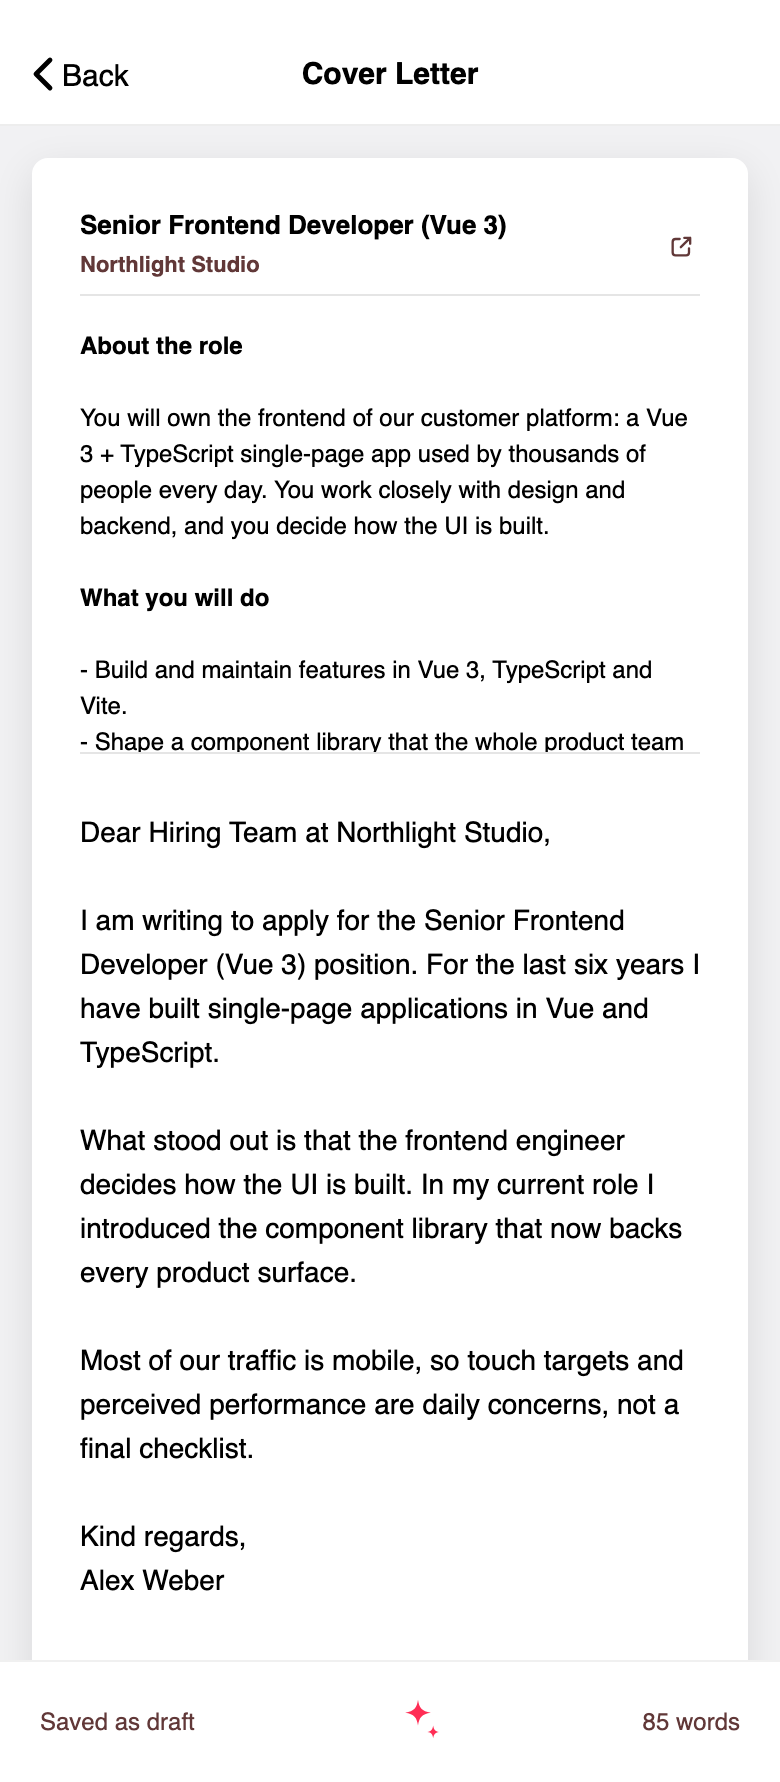
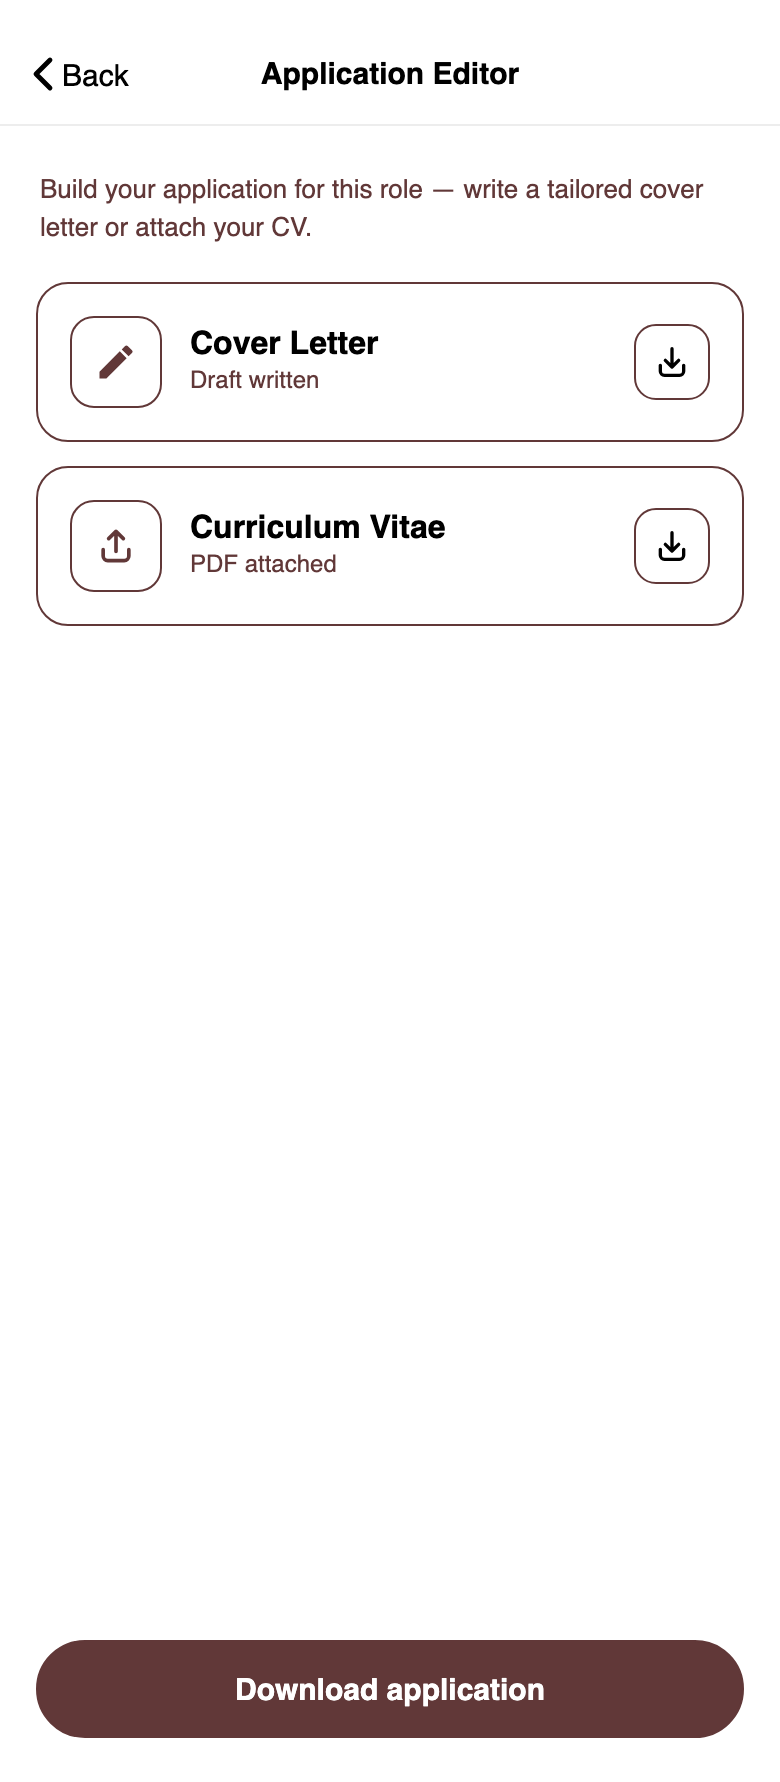
docs: document the Application Editor menu and its downloads (closes #59) (#60)
* chore: start work on issue #59

* docs: document the Application Editor menu and its downloads (closes #59)

* docs: correct Application Editor claims flagged in review

Applies the code-review findings on the Application Editor documentation:

- Move "with the job kept in view" off the menu bullet (the menu renders no
  job) onto the cover letter view, which does.
- Distinguish the two disabled-state gates: the CV download button reflects
  server presence, the cover letter button reflects a local draft
  (`letterDone = text.trim().length > 0`), so it enables before the debounced
  upload lands — and "Download application" inherits that reading.
- Note that CV upload and status are scoped to the job's `duplicateKey`, so a
  CV is attached per job rather than once per user.
- Attribute the CV upload to `ApplicationEditorPage.vue`; `CvFileInput.vue`
  only emits the chosen file.
- Name the two per-document download endpoints alongside the merged one.
- Add the three non-debounce upload flush points (leaving the editor, swiping
  to another card, unmount).
- Give `CoverLetterAction.vue` its full path, fix the match-page alt text to
  say the pencil opens the Application Editor, and list the application editor
  in the project layout tree.

* chore: add changelog entry and bump version to 0.2.6

---------

diff --git a/README.md b/README.md
@@ -14,9 +14,9 @@ to be running for jobMatch to do anything. See
 
 ## Screenshots
 
-| Match page                                                                                                                                                                      | Cover letter editor                                                                                                                                                                                |
-| ------------------------------------------------------------------------------------------------------------------------------------------------------------------------------- | -------------------------------------------------------------------------------------------------------------------------------------------------------------------------------------------------- |
-| ![Swipeable job card with a match meter, tags and the job description, above the dislike and like drag indicators and the cover letter button](docs/screenshots/match-page.png) | ![Cover letter editor showing the job the letter is written for, a full draft in the text area, the save status, the AI generate button and a word count](docs/screenshots/application-editor.png) |
+| Match page                                                                                                                                                                                                  | Application Editor                                                                                                                                                                                                                                            | Cover Letter                                                                                                                                                                                        |
+| ----------------------------------------------------------------------------------------------------------------------------------------------------------------------------------------------------------- | ------------------------------------------------------------------------------------------------------------------------------------------------------------------------------------------------------------------------------------------------------------- | --------------------------------------------------------------------------------------------------------------------------------------------------------------------------------------------------- |
+| ![Swipeable job card with a match meter, tags and the job description, above the dislike and like drag indicators and the pencil button that opens the Application Editor](docs/screenshots/match-page.png) | ![Application Editor menu with a Cover Letter row reading "Draft written", a Curriculum Vitae row reading "PDF attached", a download button beside each, and an enabled "Download application" button at the bottom](docs/screenshots/application-editor.png) | ![Cover letter editor showing the job the letter is written for, a full draft in the text area, the save status, the AI generate button and a word count](docs/screenshots/cover-letter-editor.png) |
 
 ## Features
 
@@ -34,15 +34,40 @@ to be running for jobMatch to do anything. See
   without a `match` value simply renders without one. A filter bar lets you
   hide everything below an adjustable threshold
   (`src/components/MatchFilterBar.vue`).
-- **Application editor** — the pencil button below the deck opens an editor for
-  the card on top (`src/pages/match/ApplicationEditorPage.vue`) with the job it
-  belongs to kept in view. Generate a cover letter tailored to that job with one
-  tap, then edit it by hand — drafts auto-save to `localStorage` and upload to
-  the server (both live in `ApplicationEditorPage.vue`; the editor itself,
-  `src/components/coverLetter/CoverLetterEditor.vue`, is presentational). The
-  same editor's menu lets you attach your CV as a PDF, and download the cover
-  letter, the CV, or both merged into a single application PDF
-  (`src/components/application/ApplicationEditorMenu.vue`).
+- **Application editor** — the pencil button below the deck opens the
+  Application Editor for the card on top
+  (`src/pages/match/ApplicationEditorPage.vue`). It is a two-view flow: you land
+  on a menu (`src/components/application/ApplicationEditorMenu.vue`) offering a
+  cover letter action, a CV attachment and the application download; the cover
+  letter editor is a second view opened from the menu's cover letter row.
+- **Cover letter** — generate one tailored to the job with one tap
+  (`POST /cover-letters/create/text`), then edit it by hand with the job it
+  belongs to kept in view (the menu shows no job; the letter view does). Drafts
+  save to `localStorage` immediately and upload to the server after a 3s typing
+  pause (`POST /cover-letters/upload/text`) — and also when you leave the
+  editor, swipe to another card, or the page unmounts. Both live in
+  `ApplicationEditorPage.vue`;
+  `src/components/coverLetter/CoverLetterEditor.vue` is presentational.
+- **CV and downloads** — attach a PDF CV (`src/components/CvFileInput.vue`,
+  `accept="application/pdf,.pdf"`). That component only emits the chosen file;
+  `ApplicationEditorPage.vue` uploads it (`POST /cv/upload`) and checks presence
+  (`GET /cv/<duplicateKey>/status`). Both are scoped to the job's
+  `duplicateKey`, so a CV is attached per job and has to be re-attached for the
+  next one. Download the cover letter alone (`GET /cover-letters/<duplicateKey>`),
+  the CV alone (`GET /cv/<duplicateKey>`), or both:
+    - the CV download button is disabled until the CV is on the server
+      (`:disabled="!uploaded"` in `CvFileInput.vue`);
+    - the cover letter download button is disabled until a draft exists **in
+      this browser** (`:disabled="!done"` in
+      `src/components/coverLetter/CoverLetterAction.vue`, fed by
+      `letterDone = text.trim().length > 0`) — that is the local draft, not the
+      uploaded document, so it enables before the debounced upload lands;
+    - "Download application" is disabled until at least one of the two exists
+      (`:disabled="!letterDone && !cvUploaded"`), on the same local-draft
+      reading of the cover letter;
+    - with **both** present it fetches the merged PDF
+      (`GET /application/<key>`); with only one, it downloads that single
+      document instead of a merged PDF.
 
 ## Requirements
 
@@ -168,7 +193,8 @@ src/
 ├── main.ts         App entry point — creates the Vue app and mounts it
 ├── App.vue         Root component
 ├── pages/          Route-level views (match deck, search, application editor)
-├── components/     Job cards, brand bar, match filter, cover letter and CV UI
+├── components/     Job cards, brand bar, match filter, application editor,
+│                   cover letter and CV UI
 ├── lib/            API client (base URL resolution, JSON/SSE/blob helpers)
 ├── constants/      CSS custom properties for colors, layout and typography
 ├── router/         vue-router setup

diff --git a/CHANGELOG.md b/CHANGELOG.md
@@ -2,6 +2,12 @@
 
 All notable changes to this project are documented in this file.
 
+## v0.2.6
+
+### Fixed
+
+- `README.md` documented the Application Editor as a single screen: one "Application editor" feature bullet describing an editor that opens with the job it belongs to kept in view, auto-saves the draft, and whose "menu" was mentioned only in passing as something that also attaches a CV and downloads files — and a Screenshots table whose second column was headed "Cover letter editor" while pointing at `docs/screenshots/application-editor.png`. The page is really a two-view flow: `src/pages/match/ApplicationEditorPage.vue` holds `const view = ref<'menu' | 'letter'>('menu')` and lands on `src/components/application/ApplicationEditorMenu.vue` (header "Application Editor"), and the cover letter editor (header "Cover Letter") is a second view opened from the menu's cover letter row. A reader therefore never learned that the screen the pencil button actually opens is the menu, and the only screenshot named after it showed the other view. Renamed `docs/screenshots/application-editor.png` to `cover-letter-editor.png`, since it had always shown the Cover Letter view, and captured a new `application-editor.png` of the menu in its filled state — "Draft written", "PDF attached", both per-document download buttons enabled and "Download application" enabled — then widened the Screenshots table to three columns (Match page | Application Editor | Cover Letter). Replaced the single feature bullet with three: **Application editor** for the two-view flow itself; **Cover letter** for one-tap generation (`POST /cover-letters/create/text`), the immediate `localStorage` save and the upload debounced 3s after typing stops (`POST /cover-letters/upload/text`) together with the points that flush it early (leaving the editor, swiping to another card, unmount), and the fact that the job is kept in view in the letter view but not in the menu; and **CV and downloads** for the per-`duplicateKey` CV attachment (`POST /cv/upload` and `GET /cv/<duplicateKey>/status`, both issued by `ApplicationEditorPage.vue` — `src/components/CvFileInput.vue` only emits the chosen file), the three download endpoints (`GET /cover-letters/<duplicateKey>`, `GET /cv/<duplicateKey>` and the merged `GET /application/<duplicateKey>`), and the distinct gates behind each disabled state — in particular that the cover letter download enables on a local draft (`letterDone = text.trim().length > 0`) rather than on the document being present on the server, so it unlocks before the debounced upload lands. Also corrected the match page screenshot's alt text to name the pencil button that opens the Application Editor, and the project layout tree's `components/` line to list the application editor UI. Documentation only; no source or configuration changed (closes #59).
+
 ## v0.2.5
 
 ### Changed
